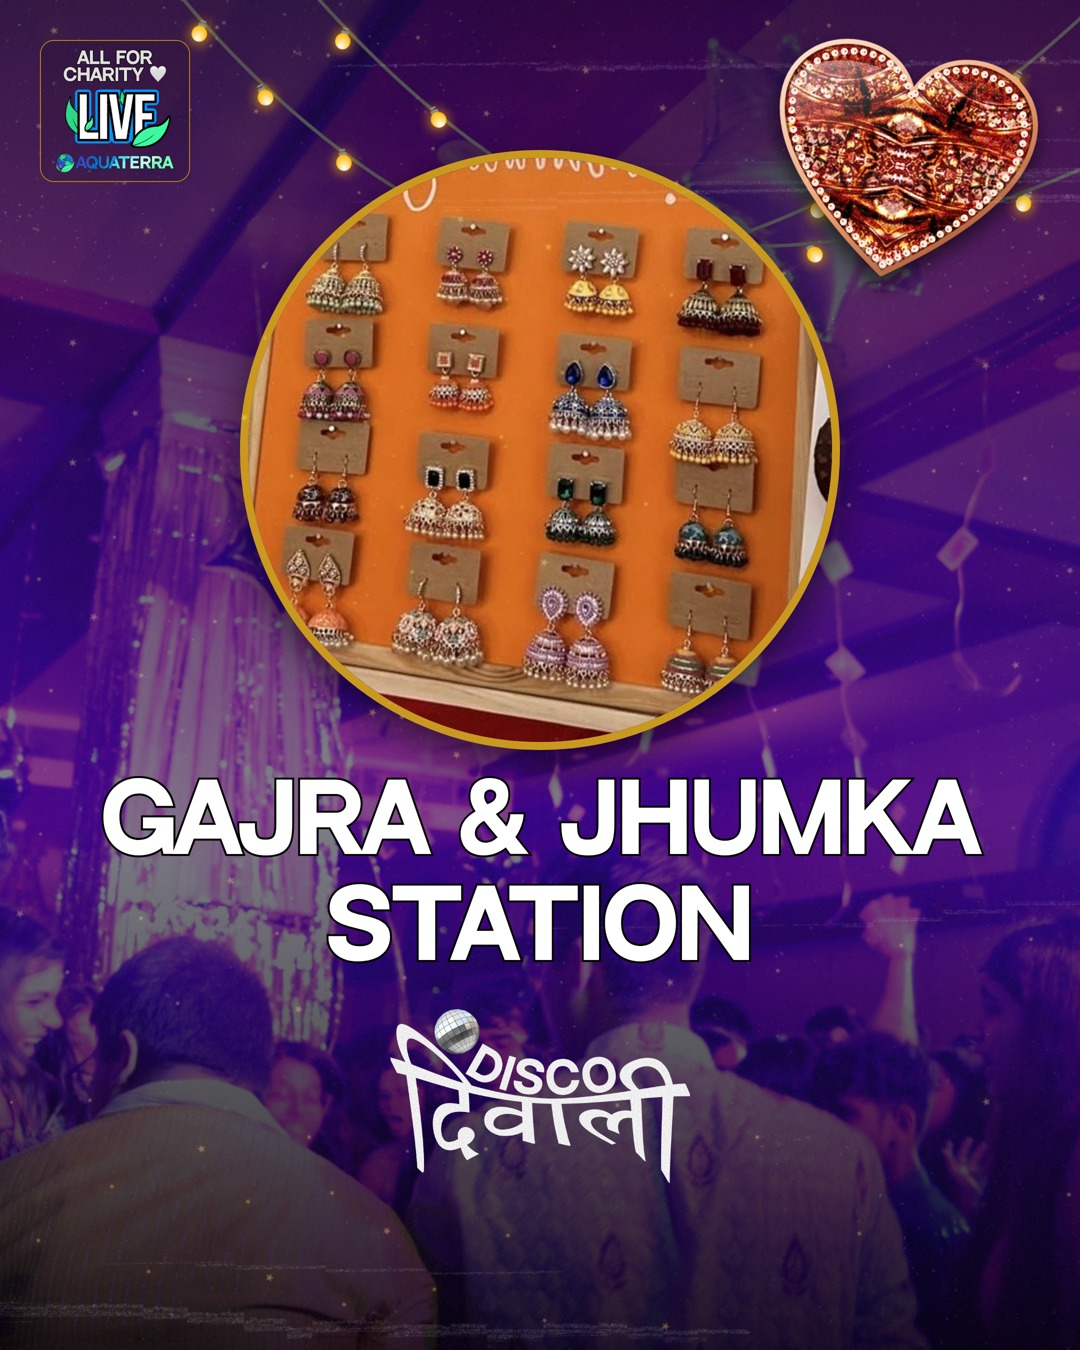
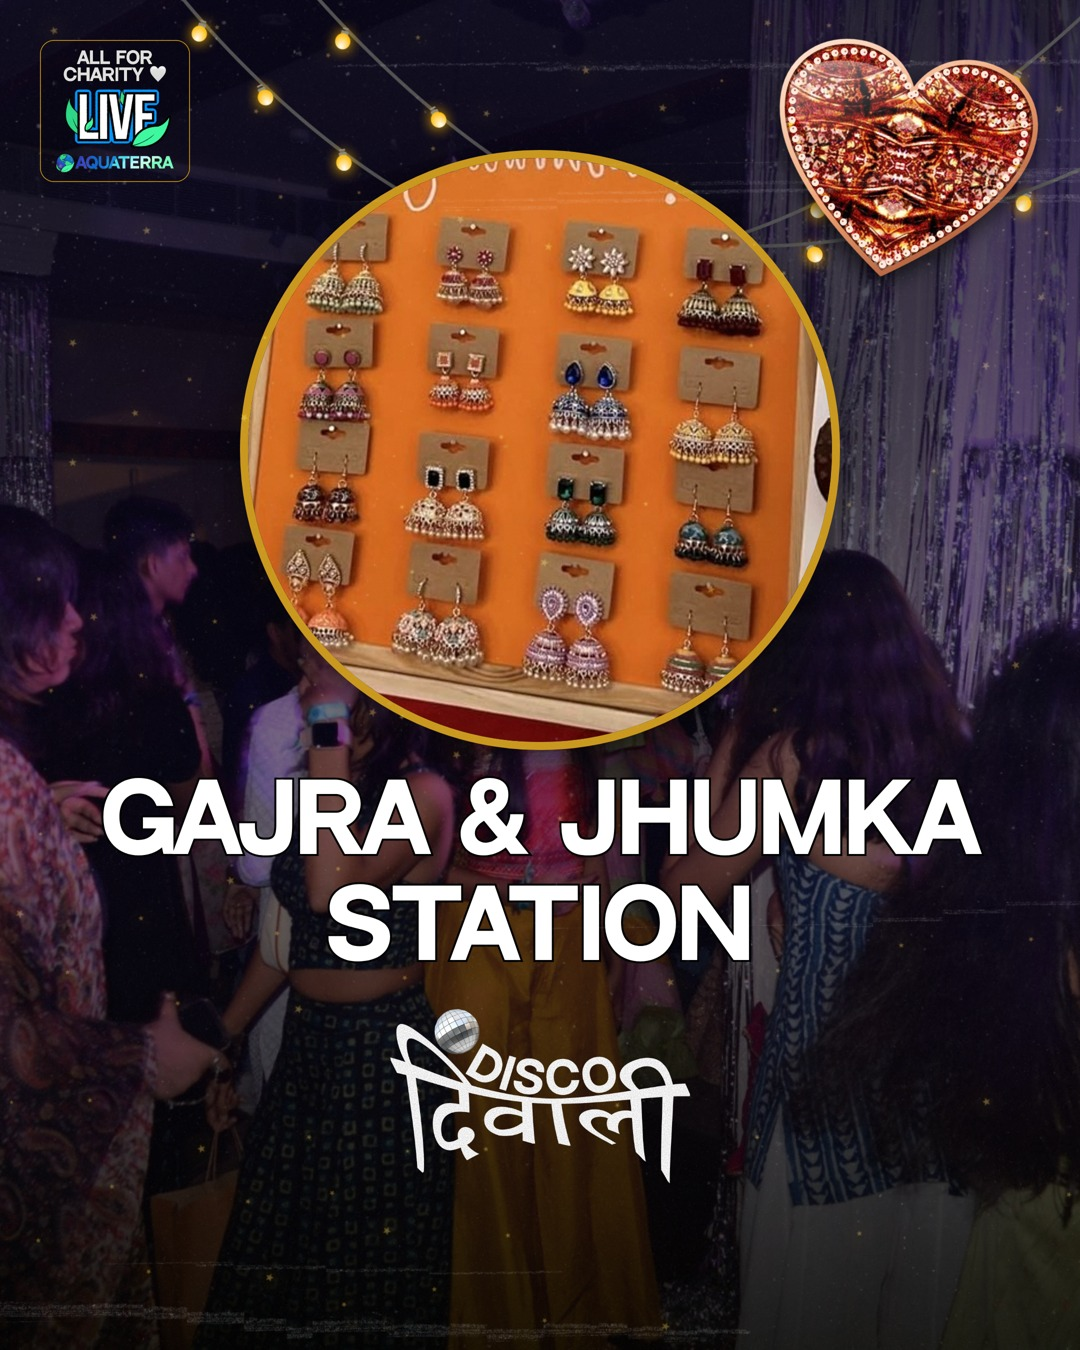
Gajra & Jhumka poster: different background photo
Claude-Session: https://claude.ai/code/session_011Tdiin6aNXQLggVhcwaFdk

diff --git a/scratchpad/dd_jhumka.py b/scratchpad/dd_jhumka.py
@@ -19,7 +19,7 @@ import dd_photo_bg as PB, dd_copper as CP   # noqa: E402  (photo ground and copp
 
 def poster(H):
     story = H > 1350
-    parts, els = [PB.photo_ground(dd, W, H, "14_04", "50% 20%", dim=.6)], []
+    parts, els = [PB.photo_ground(dd, W, H, "14_01", "50% 40%", dim=.62)], []
     # LIVE badge, top left
     bx, by, bw = 40, (210 if story else 40), 150
     parts.append(f'<img data-tag="badge" src="{dd.uri("live_badge.png")}" style="position:absolute;left:{bx}px;top:{by}px;width:{bw}px;z-index:20">'); els.append(("badge", bx, by, bw, round(bw * 1005 / 1061)))
